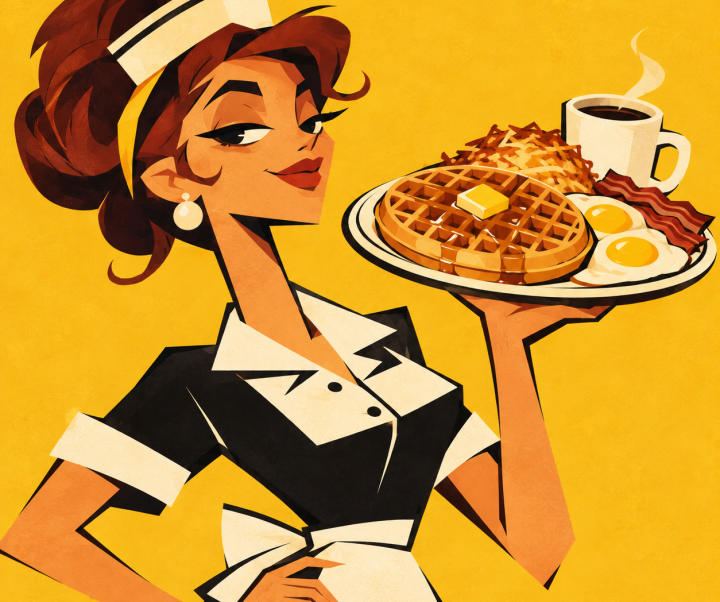
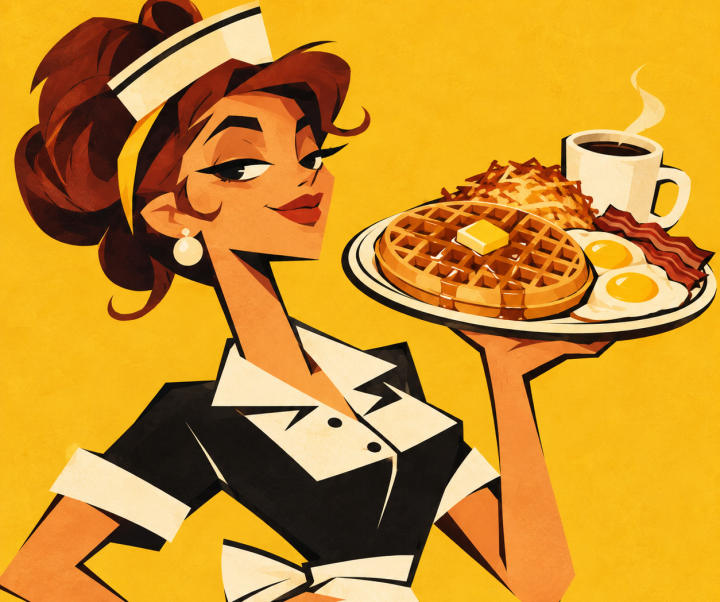
feat: add steak and japanese cuisines, new pizza card, top-anchored card crops

diff --git a/mobile/src/features/cards/cuisineArt.ts b/mobile/src/features/cards/cuisineArt.ts
@@ -5,15 +5,17 @@ import type { CuisineIconKind } from './themes';
 // the map token colour, so they can never disagree. Free text from OSM or the catalog goes
 // through normalizeCuisine; nothing else decides what cuisine a restaurant is.
 
-export const CUISINE_KEYS = ['burger', 'pizza', 'asian', 'mexican', 'bbq', 'chicken', 'coffee', 'dessert', 'breakfast', 'southern', 'seafood', 'default'] as const;
+export const CUISINE_KEYS = ['burger', 'pizza', 'asian', 'mexican', 'bbq', 'chicken', 'coffee', 'dessert', 'breakfast', 'southern', 'seafood', 'steak', 'japanese', 'default'] as const;
 export type CuisineKey = (typeof CUISINE_KEYS)[number];
 
 const TAGS: Record<string, CuisineKey> = {
   burger: 'burger', burgers: 'burger', hamburger: 'burger', american: 'burger', fast_food: 'burger', sandwich: 'burger', hot_dog: 'burger', diner: 'burger',
   pizza: 'pizza', pizzeria: 'pizza', italian_pizza: 'pizza',
-  asian: 'asian', chinese: 'asian', japanese: 'asian', sushi: 'asian', thai: 'asian', vietnamese: 'asian', korean: 'asian', ramen: 'asian', noodle: 'asian', indian: 'asian', pho: 'asian', dim_sum: 'asian',
+  asian: 'asian', chinese: 'asian', thai: 'asian', vietnamese: 'asian', korean: 'asian', ramen: 'asian', noodle: 'asian', indian: 'asian', pho: 'asian', dim_sum: 'asian',
   mexican: 'mexican', tex_mex: 'mexican', tacos: 'mexican', taco: 'mexican', burrito: 'mexican',
-  bbq: 'bbq', barbecue: 'bbq', barbeque: 'bbq', steak_house: 'bbq', steak: 'bbq', grill: 'bbq',
+  bbq: 'bbq', barbecue: 'bbq', barbeque: 'bbq', grill: 'bbq',
+  steak: 'steak', steak_house: 'steak', steakhouse: 'steak',
+  japanese: 'japanese', sushi: 'japanese',
   chicken: 'chicken', wings: 'chicken', fried_chicken: 'chicken',
   cafe: 'coffee', coffee: 'coffee', coffee_shop: 'coffee', tea: 'coffee', bubble_tea: 'coffee',
   dessert: 'dessert', ice_cream: 'dessert', donut: 'dessert', doughnut: 'dessert', bakery: 'dessert', cake: 'dessert', frozen_yogurt: 'dessert', waffle: 'dessert',
@@ -54,7 +56,7 @@ export function cuisineKeyFor(restaurant: { name: string; category: string }): C
 // The code-drawn fallback icon for each key. Several cuisines share a drawing for now.
 const ICONS: Record<CuisineKey, CuisineIconKind> = {
   burger: 'burger', pizza: 'pizza', asian: 'sushi', mexican: 'plate', bbq: 'bbq', chicken: 'southern',
-  coffee: 'coffee', dessert: 'plate', breakfast: 'coffee', southern: 'southern', seafood: 'sushi', default: 'plate',
+  coffee: 'coffee', dessert: 'plate', breakfast: 'coffee', southern: 'southern', seafood: 'sushi', steak: 'bbq', japanese: 'sushi', default: 'plate',
 };
 
 export function cuisineIconFor(key: CuisineKey): CuisineIconKind {
@@ -75,6 +77,8 @@ const COLORS: Record<CuisineKey, CuisineColors> = {
   breakfast: { ring: '#f5d13d', fill: '#3a3009', ink: '#fff2a6' },
   southern: { ring: '#c9772e', fill: '#33200c', ink: '#ffddb0' },
   seafood: { ring: '#4aa3df', fill: '#0f2a3d', ink: '#cfeaff' },
+  steak: { ring: '#b0343f', fill: '#2f0c10', ink: '#ffcfc9' },
+  japanese: { ring: '#8a7be0', fill: '#1d1840', ink: '#dcd6ff' },
   default: { ring: '#a99b8a', fill: '#2a241d', ink: '#f2e6d6' },
 };
 
@@ -96,6 +100,8 @@ const ART: Partial<Record<CuisineKey, Art>> = {
   chicken: { token: () => require('../../../assets/cuisine/chicken.png'), card: () => require('../../../assets/cuisine/chicken-card.jpg') },
   southern: { token: () => require('../../../assets/cuisine/southern.png'), card: () => require('../../../assets/cuisine/southern-card.jpg') },
   seafood: { token: () => require('../../../assets/cuisine/seafood.png'), card: () => require('../../../assets/cuisine/seafood-card.jpg') },
+  steak: { token: () => require('../../../assets/cuisine/steak.png'), card: () => require('../../../assets/cuisine/steak-card.jpg') },
+  japanese: { token: () => require('../../../assets/cuisine/japanese.png'), card: () => require('../../../assets/cuisine/japanese-card.jpg') },
 };
 
 export function hasCuisineArt(key: CuisineKey): boolean {

diff --git a/mobile/tests/cards-cuisine.test.ts b/mobile/tests/cards-cuisine.test.ts
@@ -8,7 +8,9 @@ describe('normalizeCuisine', () => {
     expect(normalizeCuisine('burger;american')).toBe('burger');
     expect(normalizeCuisine('american;burger')).toBe('burger');
     expect(normalizeCuisine('regional;chicken')).toBe('chicken');
-    for (const tag of ['chinese', 'japanese', 'sushi', 'thai', 'vietnamese', 'korean', 'ramen']) expect(normalizeCuisine(tag)).toBe('asian');
+    for (const tag of ['chinese', 'thai', 'vietnamese', 'korean', 'ramen']) expect(normalizeCuisine(tag)).toBe('asian');
+    for (const tag of ['japanese', 'sushi']) expect(normalizeCuisine(tag)).toBe('japanese');
+    for (const tag of ['steak_house', 'steakhouse', 'steak']) expect(normalizeCuisine(tag)).toBe('steak');
     expect(normalizeCuisine('tex-mex')).toBe('mexican');
     expect(normalizeCuisine('Tacos')).toBe('mexican');
     expect(normalizeCuisine('barbecue')).toBe('bbq');
@@ -52,7 +54,7 @@ describe('cuisine art, colours and abilities', () => {
 
 describe('cuisine art files', () => {
   it('are listed only for cuisines with a committed image; the rest fall back to the drawn icon', () => {
-    for (const key of ['burger', 'pizza', 'asian', 'breakfast', 'coffee', 'chicken', 'southern', 'seafood'] as const) expect(hasCuisineArt(key)).toBe(true);
+    for (const key of ['burger', 'pizza', 'asian', 'breakfast', 'coffee', 'chicken', 'southern', 'seafood', 'steak', 'japanese'] as const) expect(hasCuisineArt(key)).toBe(true);
     for (const key of ['mexican', 'bbq', 'dessert', 'default'] as const) expect(hasCuisineArt(key)).toBe(false);
   });
 });

diff --git a/mobile/src/features/map/labels.ts b/mobile/src/features/map/labels.ts
@@ -36,6 +36,8 @@ const ABILITY: Record<CuisineKey, string> = {
   breakfast: 'Early Bird — bonus XP before 10am',
   southern: 'Comfort Streak — bonus XP on back-to-back visits',
   seafood: 'Catch of the Day — bonus XP on a new dish',
+  steak: 'Prime Cut — +20% XP on dinner visits',
+  japanese: 'Blade Master — bonus XP for trying something new',
   default: 'Local Legend — earn XP on every visit',
 };
 
